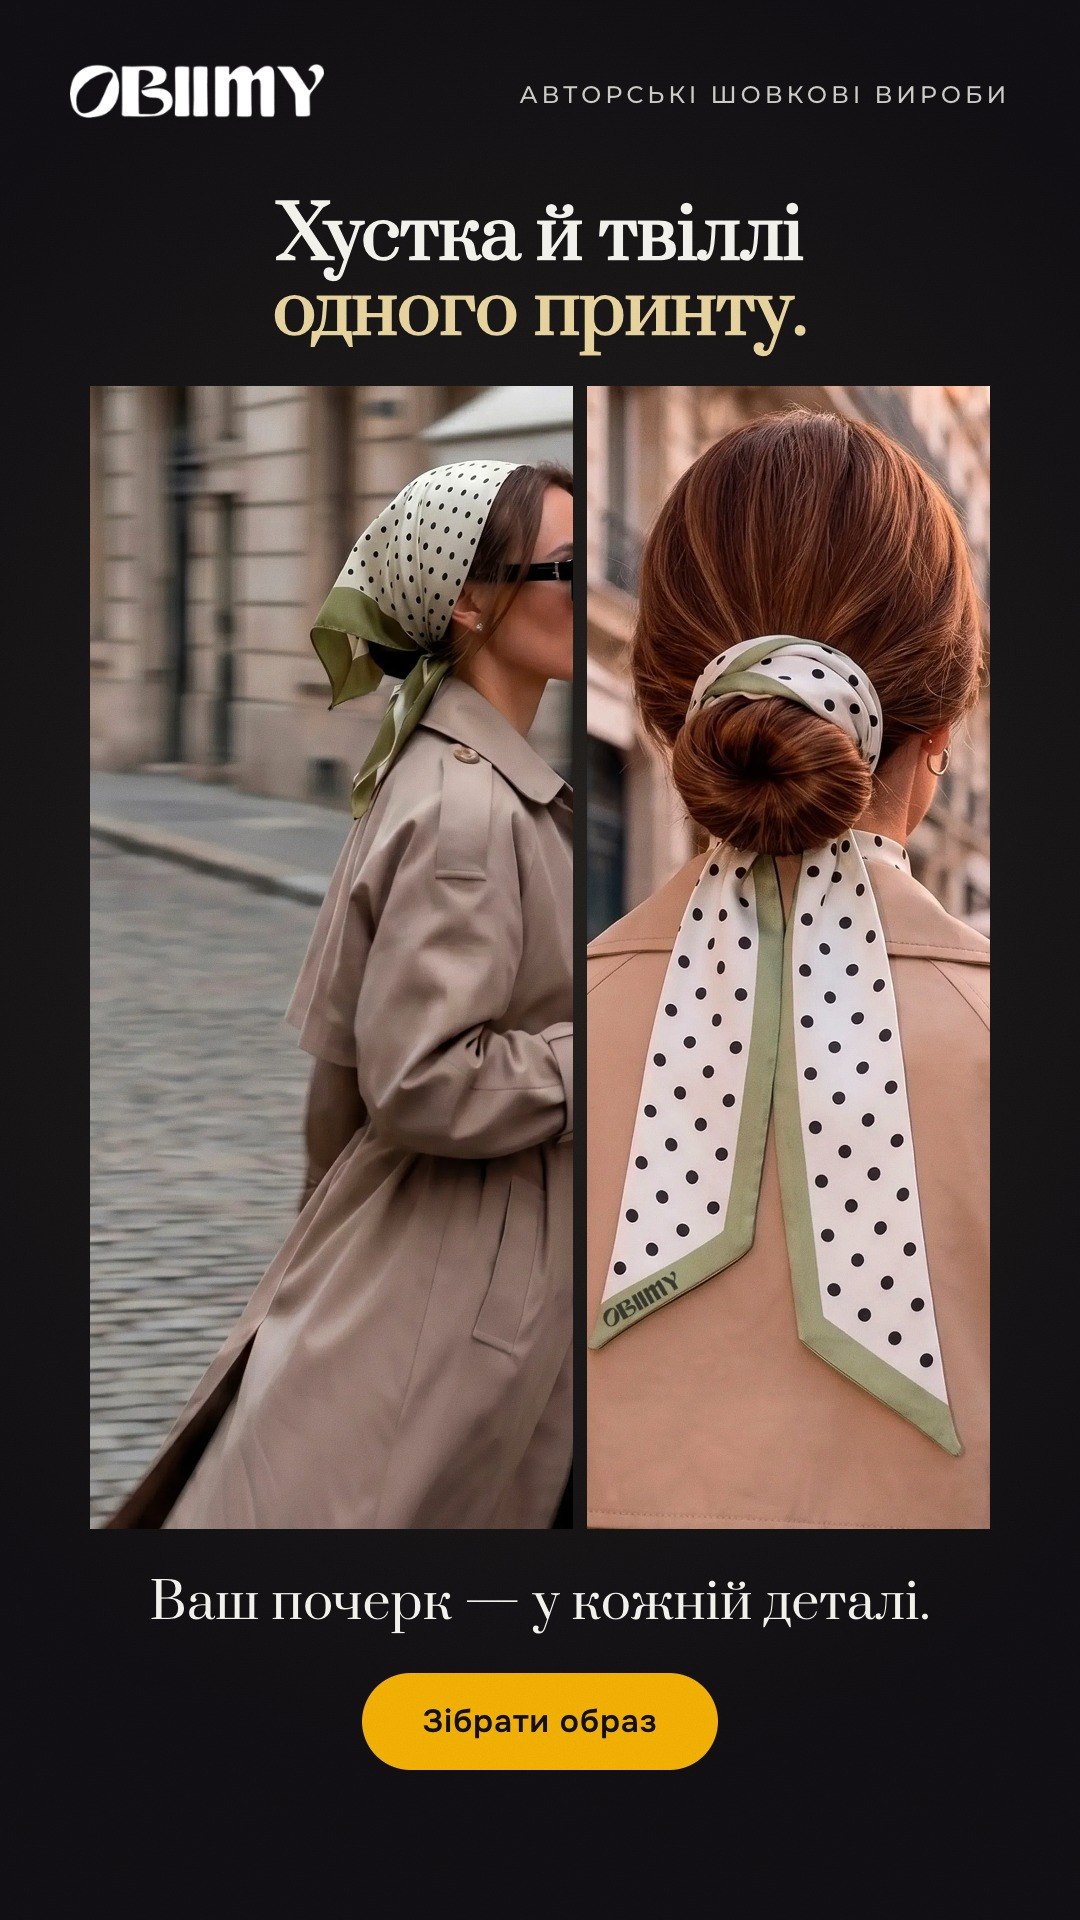
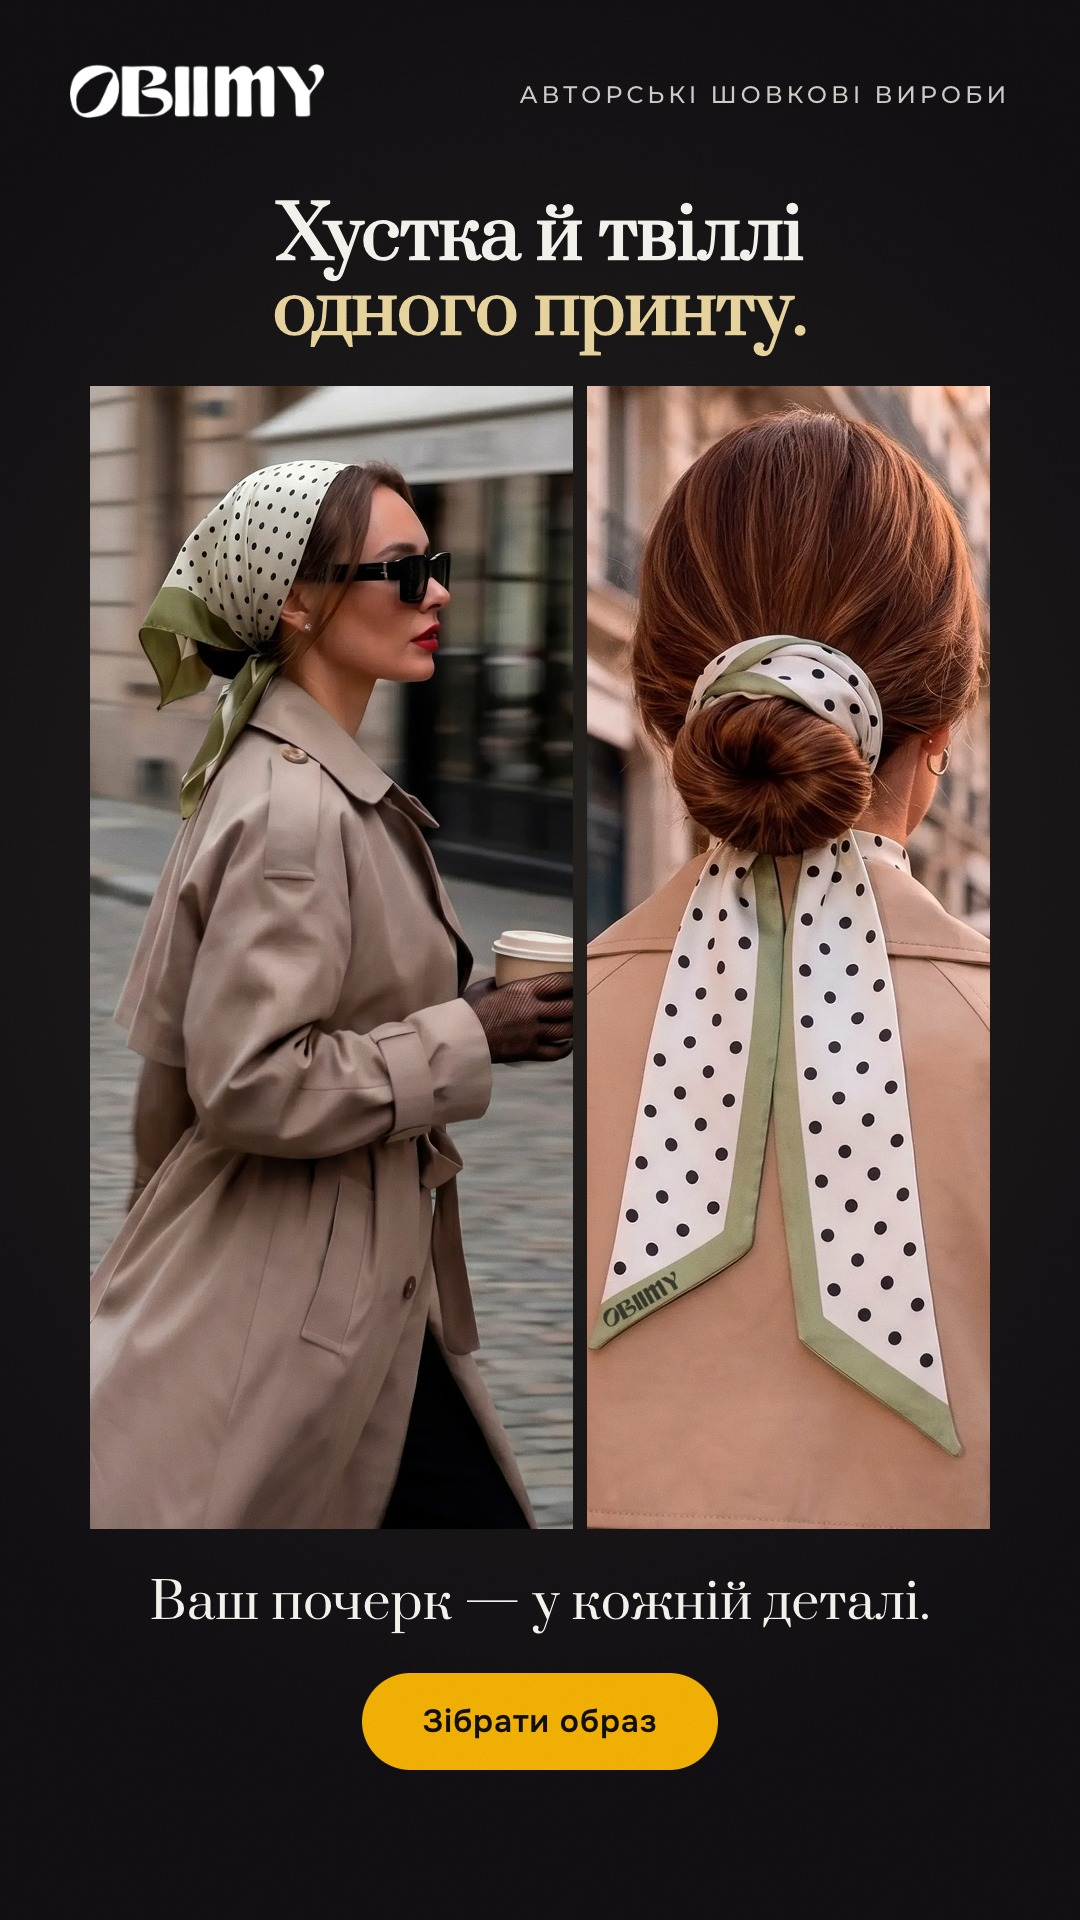
c23: left photo shows the whole face

Changed region(s): [[0.0611, 0.1875, 0.55, 0.8125]]

diff --git a/site/creatives.html b/site/creatives.html
@@ -114,8 +114,8 @@ footer { margin-top: 72px; color: var(--ink2); font-size: .85rem; border-top: 1p
         <figcaption><label class="pick"><input type="checkbox" data-id="solo-main/c05-zolote.jpg"><span>Залишити</span></label><span class="fid">c05</span><a href="creatives/solo-main/c05-zolote.jpg?v=4241e29b" download="c05-zolote.jpg">JPG ↓</a></figcaption></figure><figure class="c st" data-f="st" data-id="solo-main/c06-avantiura.jpg"><a href="creatives/solo-main/c06-avantiura.jpg?v=149d11a8" target="_blank" rel="noopener"><img src="creatives/solo-main/c06-avantiura-540.webp?v=149d11a8" alt="Варіант A · повноекранні" loading="lazy" width="540" height="960"></a>
         <figcaption><label class="pick"><input type="checkbox" data-id="solo-main/c06-avantiura.jpg"><span>Залишити</span></label><span class="fid">c06</span><a href="creatives/solo-main/c06-avantiura.jpg?v=149d11a8" download="c06-avantiura.jpg">JPG ↓</a></figcaption></figure><figure class="c st" data-f="st" data-id="solo-main/c10-grey.jpg"><a href="creatives/solo-main/c10-grey.jpg?v=6d2e58c5" target="_blank" rel="noopener"><img src="creatives/solo-main/c10-grey-540.webp?v=6d2e58c5" alt="Варіант A · повноекранні" loading="lazy" width="540" height="960"></a>
         <figcaption><label class="pick"><input type="checkbox" data-id="solo-main/c10-grey.jpg"><span>Залишити</span></label><span class="fid">c10</span><a href="creatives/solo-main/c10-grey.jpg?v=6d2e58c5" download="c10-grey.jpg">JPG ↓</a></figcaption></figure><figure class="c st" data-f="st" data-id="solo-main/c18-look.jpg"><a href="creatives/solo-main/c18-look.jpg?v=959ab34e" target="_blank" rel="noopener"><img src="creatives/solo-main/c18-look-540.webp?v=959ab34e" alt="Варіант A · товарні" loading="lazy" width="540" height="960"></a>
-        <figcaption><label class="pick"><input type="checkbox" data-id="solo-main/c18-look.jpg"><span>Залишити</span></label><span class="fid">c18</span><a href="creatives/solo-main/c18-look.jpg?v=959ab34e" download="c18-look.jpg">JPG ↓</a></figcaption></figure><figure class="c st" data-f="st" data-id="solo-main/c23-look-dark.jpg"><a href="creatives/solo-main/c23-look-dark.jpg?v=1e2a939d" target="_blank" rel="noopener"><img src="creatives/solo-main/c23-look-dark-540.webp?v=1e2a939d" alt="Варіант A · товарні" loading="lazy" width="540" height="960"></a>
-        <figcaption><label class="pick"><input type="checkbox" data-id="solo-main/c23-look-dark.jpg"><span>Залишити</span></label><span class="fid">c23</span><a href="creatives/solo-main/c23-look-dark.jpg?v=1e2a939d" download="c23-look-dark.jpg">JPG ↓</a></figcaption></figure><figure class="c st" data-f="st" data-id="final2/obiimy-12-paris-chervonyi-shovk-1080x1920.jpg"><a href="creatives/final2/obiimy-12-paris-chervonyi-shovk-1080x1920.jpg?v=db0148a4" target="_blank" rel="noopener"><img src="creatives/final2/obiimy-12-paris-chervonyi-shovk-1080x1920-540.webp?v=db0148a4" alt="Серія 2 · Париж і Рив’єра" loading="lazy" width="540" height="960"></a>
+        <figcaption><label class="pick"><input type="checkbox" data-id="solo-main/c18-look.jpg"><span>Залишити</span></label><span class="fid">c18</span><a href="creatives/solo-main/c18-look.jpg?v=959ab34e" download="c18-look.jpg">JPG ↓</a></figcaption></figure><figure class="c st" data-f="st" data-id="solo-main/c23-look-dark.jpg"><a href="creatives/solo-main/c23-look-dark.jpg?v=0b5e734a" target="_blank" rel="noopener"><img src="creatives/solo-main/c23-look-dark-540.webp?v=0b5e734a" alt="Варіант A · товарні" loading="lazy" width="540" height="960"></a>
+        <figcaption><label class="pick"><input type="checkbox" data-id="solo-main/c23-look-dark.jpg"><span>Залишити</span></label><span class="fid">c23</span><a href="creatives/solo-main/c23-look-dark.jpg?v=0b5e734a" download="c23-look-dark.jpg">JPG ↓</a></figcaption></figure><figure class="c st" data-f="st" data-id="final2/obiimy-12-paris-chervonyi-shovk-1080x1920.jpg"><a href="creatives/final2/obiimy-12-paris-chervonyi-shovk-1080x1920.jpg?v=db0148a4" target="_blank" rel="noopener"><img src="creatives/final2/obiimy-12-paris-chervonyi-shovk-1080x1920-540.webp?v=db0148a4" alt="Серія 2 · Париж і Рив’єра" loading="lazy" width="540" height="960"></a>
         <figcaption><label class="pick"><input type="checkbox" data-id="final2/obiimy-12-paris-chervonyi-shovk-1080x1920.jpg"><span>Залишити</span></label><span class="fid">obiimy</span><a href="creatives/final2/obiimy-12-paris-chervonyi-shovk-1080x1920.jpg?v=db0148a4" download="obiimy-12-paris-chervonyi-shovk-1080x1920.jpg">JPG ↓</a></figcaption></figure><figure class="c st" data-f="st" data-id="final2/obiimy-13-paris-shal-1080x1920.jpg"><a href="creatives/final2/obiimy-13-paris-shal-1080x1920.jpg?v=51ed99b8" target="_blank" rel="noopener"><img src="creatives/final2/obiimy-13-paris-shal-1080x1920-540.webp?v=51ed99b8" alt="Серія 2 · Париж і Рив’єра" loading="lazy" width="540" height="960"></a>
         <figcaption><label class="pick"><input type="checkbox" data-id="final2/obiimy-13-paris-shal-1080x1920.jpg"><span>Залишити</span></label><span class="fid">obiimy</span><a href="creatives/final2/obiimy-13-paris-shal-1080x1920.jpg?v=51ed99b8" download="obiimy-13-paris-shal-1080x1920.jpg">JPG ↓</a></figcaption></figure><figure class="c st" data-f="st" data-id="final2/obiimy-20-solo-rivera-1080x1920.jpg"><a href="creatives/final2/obiimy-20-solo-rivera-1080x1920.jpg?v=9ee93e36" target="_blank" rel="noopener"><img src="creatives/final2/obiimy-20-solo-rivera-1080x1920-540.webp?v=9ee93e36" alt="Серія 2 · Париж і Рив’єра" loading="lazy" width="540" height="960"></a>
         <figcaption><label class="pick"><input type="checkbox" data-id="final2/obiimy-20-solo-rivera-1080x1920.jpg"><span>Залишити</span></label><span class="fid">obiimy</span><a href="creatives/final2/obiimy-20-solo-rivera-1080x1920.jpg?v=9ee93e36" download="obiimy-20-solo-rivera-1080x1920.jpg">JPG ↓</a></figcaption></figure><figure class="c st" data-f="st" data-id="solo-one/g07-scrunchie-gift.jpg"><a href="creatives/solo-one/g07-scrunchie-gift.jpg?v=933e0425" target="_blank" rel="noopener"><img src="creatives/solo-one/g07-scrunchie-gift-540.webp?v=933e0425" alt="Подарункові · варіант A" loading="lazy" width="540" height="960"></a>

diff --git a/ads/solo/solo4.html b/ads/solo/solo4.html
@@ -342,7 +342,7 @@ body { margin: 0; background: #666; font-family: 'Onest', 'Helvetica Neue', Aria
     <div style="height:60px"></div>
     <h1 class="h" style="position:static;margin-top:60px;font-size:72px">Хустка й твіллі<br><em style="color:#E9D7A6">одного принту.</em></h1>
     <div style="flex:1;min-height:0;align-self:stretch;margin-top:36px;position:relative"><div style="position:absolute;inset:0 20px;display:grid;grid-template-columns:1.2fr 1fr;gap:14px">
-    <div class="photo"><img src="src/flirt-65-3-2k.webp" alt="" style="object-position:36% 30%"></div><div class="photo"><img src="src/flirt-tw-1-2k.webp" alt="" style="object-position:50% 40%"></div></div></div>
+    <div class="photo"><img src="src/flirt-65-3-2k.webp" alt="" style="object-position:62% 30%"></div><div class="photo"><img src="src/flirt-tw-1-2k.webp" alt="" style="object-position:50% 40%"></div></div></div>
     <p style="position:static;margin-top:44px;max-width:860px;font-family:Prata,serif;font-size:50px;line-height:1.2;color:#F4F2ED;text-wrap:balance">Ваш почерк — у кожній деталі.</p>
     
     <div class="cta" style="position:static;transform:none;margin-top:40px">Зібрати образ</div>

diff --git a/ads/solo/build4.py b/ads/solo/build4.py
@@ -247,7 +247,7 @@ look = f"""<div style="position:absolute;inset:0 20px;display:grid;grid-template
 ivory("c18-look", "Шовкова хустка + твіллі", "Хустка й твіллі", "одного принту.", look,
       "Один принт — на плечах і на сумці.", "6 400 грн", "хустка + твіллі · доставка безкоштовна", "Зібрати образ", note="Complete look", quote="Ваш почерк — у кожній деталі.", hs=72)
 look2 = f"""<div style="position:absolute;inset:0 20px;display:grid;grid-template-columns:1.2fr 1fr;gap:14px">
-    <div class="photo"><img src="{S2('flirt-65-3')}" alt="" style="object-position:36% 30%"></div><div class="photo"><img src="{S2('flirt-tw-1')}" alt="" style="object-position:50% 40%"></div></div>"""
+    <div class="photo"><img src="{S2('flirt-65-3')}" alt="" style="object-position:62% 30%"></div><div class="photo"><img src="{S2('flirt-tw-1')}" alt="" style="object-position:50% 40%"></div></div>"""
 ivory("c23-look-dark", "Шовкова хустка + твіллі", "Хустка й твіллі", "одного принту.", look2,
       "Один принт — на плечах і на сумці.", "6 400 грн", "хустка + твіллі · доставка безкоштовна", "Зібрати образ", note="Complete look, dark", quote="Ваш почерк — у кожній деталі.", hs=72, dark=True)
 cert = f"""<div style="position:absolute;inset:0 20px;background:url(src/{PP['zolote']['flat']}-hi.webp) center/170%"></div>
